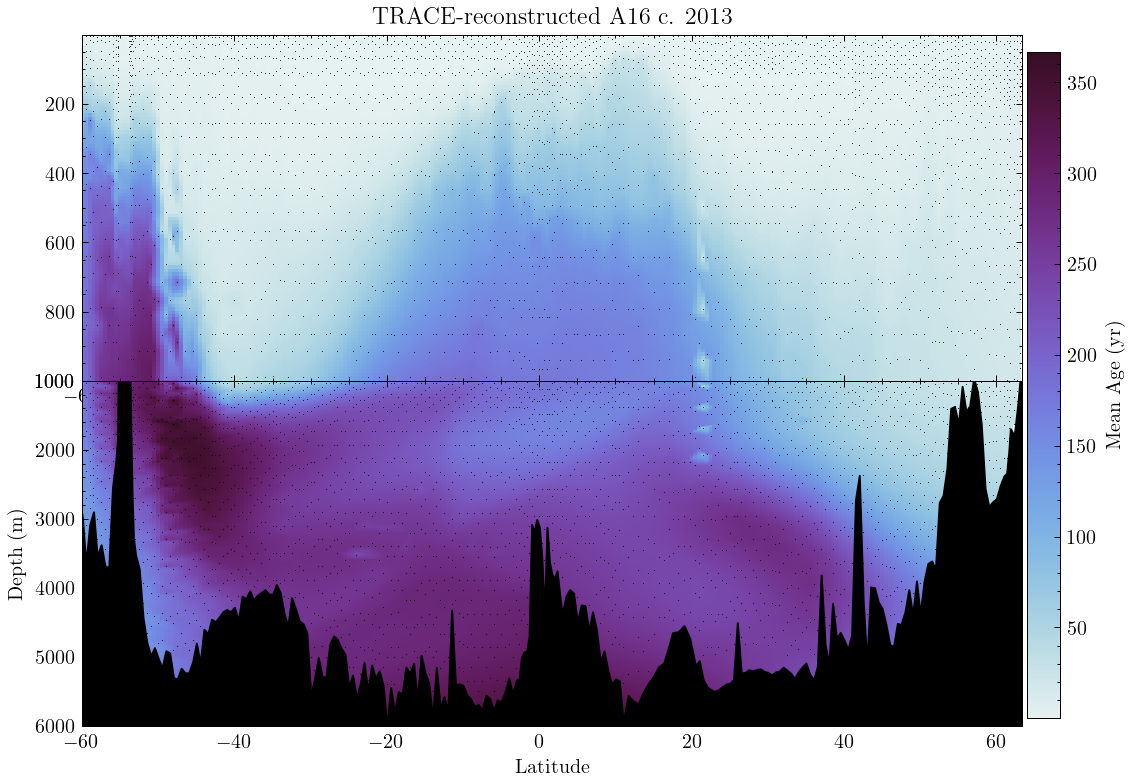
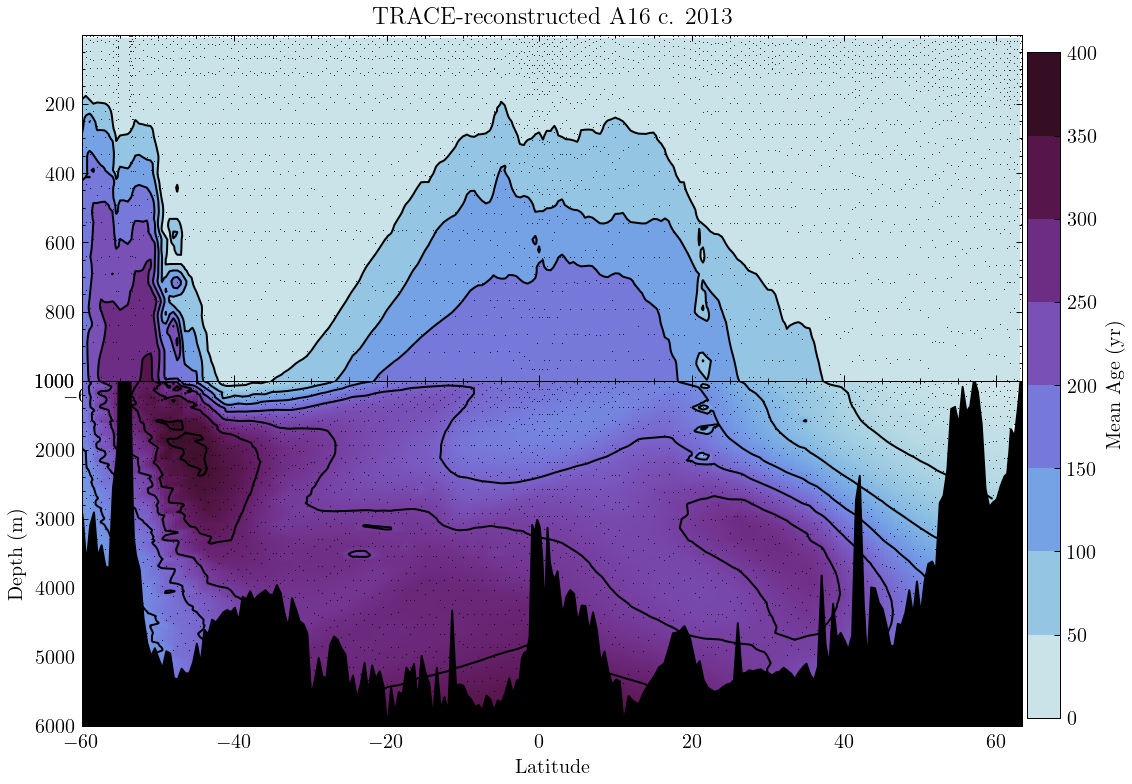
Better a16 demo

diff --git a/demos/trace_a16.py b/demos/trace_a16.py
@@ -360,3 +360,84 @@ plt.subplots_adjust(
 )
 
 fig.savefig("a16_age_demo.png")
+
+# %%
+xmin = output_df.lat.min()
+xmax = output_df.lat.max()
+ymin = output_df.depth.min()
+ymax = output_df.depth.max()
+cmap = cm.dense
+vmin = None
+vmax = None
+ybreak = 1000
+X, Y = np.meshgrid(output_df.lat, output_df.depth)
+Xn, Yn = np.mgrid[xmin:xmax:0.5, ymin:ymax:10]
+param_list = ["canth", "age", "sal", "tc", "ta", "dic", "uncert"]
+label_list = [
+    "C$_{anth}$ ($\mu$mol kg$^{-1}$)",
+    "Mean Age (yr)",
+    "Salinity",
+    "Temperature ($^{\circ}$C)",
+    "A$_T$ ($\mu$mol kg$^{-1}$)",
+    "DIC ($\mu$mol kg$^{-1}$)",
+    "u(C$_{anth}$) ($\mu$mol kg$^{-1}$)",
+]
+for i in range(len(param_list)):
+    Z = griddata(
+        (output_df.lat, output_df.depth),
+        output_df[param_list[i]],
+        (Xn, Yn),
+        method="linear",
+        rescale=True,
+    )
+    vmin = np.nanmin(Z)
+    vmax = np.nanmax(Z)
+    fig, ax = plt.subplots(2, figsize=(9, 6))
+    mesh0 = ax[0].contourf(Xn, Yn, Z, cmap=cmap, vmin=vmin, vmax=vmax)
+    lines0 = ax[0].contour(Xn, Yn, Z, colors="k", vmin=vmin, vmax=vmax)
+    mesh1 = ax[1].pcolormesh(Xn, Yn, Z, cmap=cmap, vmin=vmin, vmax=vmax)
+    lines1 = ax[1].contour(Xn, Yn, Z, colors="k", vmin=vmin, vmax=vmax)
+    ax[1].scatter(
+        output_df.lat,
+        output_df.depth,
+        c="k",
+        s=1,
+        marker=".",
+        linewidths=0,
+        edgecolors=None,
+    )
+    ax[0].scatter(
+        output_df.lat,
+        output_df.depth,
+        c="k",
+        s=1,
+        marker=".",
+        linewidths=0,
+        edgecolors=None,
+    )
+    fig.colorbar(
+        mesh0,
+        ax=ax.ravel().tolist(),
+        label=label_list[i],
+        location="right",
+        anchor=(0.5, 1),
+    )
+    ax[1].set_xlabel("Latitude")
+    ax[1].set_ylabel("Depth (m)")
+    ax[0].set_title("TRACE-reconstructed A16 c. 2013")
+    ax[1].fill_between(
+        bottom_depths.lat,
+        bottom_depths.depth,
+        bottom_depths.depth.max(),
+        color="k",
+    )
+    ax[1].set_ylim(ymax, ybreak)
+    ax[0].set_ylim(ybreak, ymin)
+    ax[0].set_xlim(xmin, xmax)
+    ax[1].set_xlim(xmin, xmax)
+
+    plt.subplots_adjust(
+        left=0.1, bottom=0.1, right=0.825, top=0.9, wspace=0.4, hspace=0
+    )
+
+    fig.savefig("a16_" + param_list[i] + "_demo.png")

diff --git a/pyTRACE/neuralnets/__init__.py b/pyTRACE/neuralnets/__init__.py
@@ -3,11 +3,11 @@ Combined function for NN estimation in pyTRACE
 """
 
 import numpy as np
-import pandas as pd
 import warnings
 from tqdm import tqdm
 import os
 from scipy import io
+from os.path import join as joinpath
 import pickle
 
 from pyTRACE.utils import (
@@ -21,7 +21,7 @@ from pyTRACE.utils import (
     inverse_gaussian_wrapper,
     inpolygon,
 )
-from seawater import satO2, ptmp, dens, pres
+from seawater import ptmp, dens, pres
 
 
 def trace_nn(
@@ -245,7 +245,7 @@ def trace_nn(
                     "A property identifier >8 or <1 was supplied, but this routine only has 2 possible property estimates.  The property identifier is the first input."
                 )
         # Loading the data, with an error message if not found
-        fn = DATADIR + "/Polys.mat"
+        fn = joinpath(DATADIR, "Polys.mat")
         # Making sure you downloaded the needed file and put it somewhere it
         # can be found
         if not os.path.isfile(fn):
@@ -424,7 +424,7 @@ def execute_nn(X, VName, Location, Equation, Net, DATADIR, verbose_tf=True):
     """Execute neural network by calling pickle file with weights
     determined using MATLAB machine learning routines, followed by
     linear algebra replicating neural network architecture exactly."""
-    with open(DATADIR + "/nn_params.pkl", "rb") as f:
+    with open(joinpath(DATADIR, "nn_params.pkl"), "rb") as f:
         dill = pickle.load(f)
     if VName == "Temperature":
         VName = "EstT_Temperature"

diff --git a/pyTRACE/pytrace.py b/pyTRACE/pytrace.py
@@ -1,10 +1,15 @@
+"""
+Top level module of pyTRACE.
+trace()
+    Generates etimates of ocean anthropogenic carbon content from
+    user-supplied inputs of coordinates (lat, lon, depth), salinity,
+    temperature, and date.
+No other functions presently implemented.
+"""
+
 import numpy as np
-import pandas as pd
-from scipy.stats import invgauss
 from scipy.interpolate import interp1d
 import warnings
-from os import path
-from seawater import satO2, ptmp, dens, pres  # TODO replace with gsw
 import xarray as xr
 from pyTRACE.neuralnets import trace_nn
 import PyCO2SYS as pyco2
@@ -252,7 +257,7 @@ def trace(
     # value. "Adjusted" can be deleted in the following line to use the
     # original atmospheric values.  If this approach is used, then users should
     # consider altering CanthDiseq below to modulate the degree of equilibrium.
-    co2_rec = np.loadtxt(DATADIR + "/CO2TrajectoriesAdjusted.txt")
+    co2_rec = np.loadtxt(joinpath(DATADIR, "CO2TrajectoriesAdjusted.txt"))
     co2_rec = np.vstack([co2_rec[0, :], co2_rec])
     co2_rec[0, 0] = -1e10  # Set ancient CO2 to preindustrial placeholder
 
